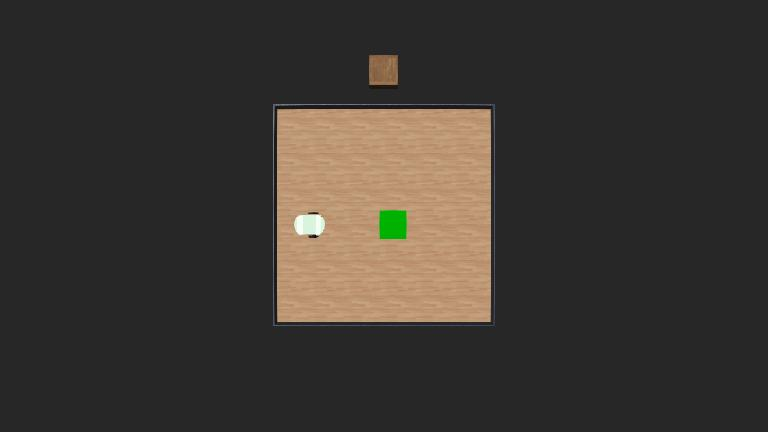
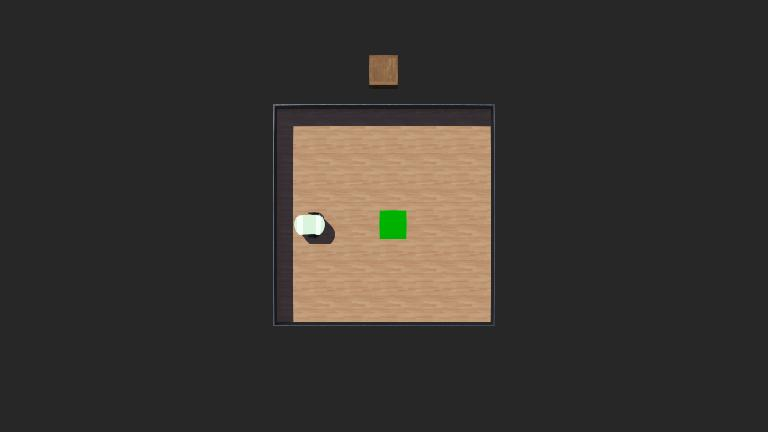
side sensors

Changed region(s): [[0.3438, 0.2407, 0.6562, 0.7523]]

diff --git a/src/simulation/controllers/rl/params.py b/src/simulation/controllers/rl/params.py
@@ -6,48 +6,48 @@ controllers_path = (
 
 
 params = [
-    # {...
-    #     "id": 1,
-    #     "agent": PPO,
-    #     "name": "ppo",
-    #     "time_limit": 150.0,
-    #     "args": {},
-    # },
-    # {
-    #     "id": 49,
-    #     "agent": PPO,
-    #     "name": "ppo",
-    #     "time_limit": 150.0,
-    #     "args": {
-    #         "learning_rate": 0.0001,
-    #         "n_steps": 4096,
-    #         "gamma": 0.99,
-    #     },
-    # },
-    # {
-    #     "id": 51,
-    #     "agent": PPO,
-    #     "name": "ppo",
-    #     "time_limit": 150.0,
-    #     "args": {
-    #         "learning_rate": 0.0003,
-    #         "n_steps": 4096,
-    #         "gamma": 0.9,
-    #         "ent_coef": 0.01,
-    #     },
-    # },
-    # {
-    #     "id": 52,
-    #     "agent": PPO,
-    #     "name": "ppo",
-    #     "time_limit": 150.0,
-    #     "args": {
-    #         "learning_rate": 0.0003,
-    #         "n_steps": 8192,
-    #         "gamma": 0.9,
-    #         "ent_coef": 0.01,
-    #     },
-    # },...
+    {
+        "id": 1,
+        "agent": PPO,
+        "name": "ppo",
+        "time_limit": 150.0,
+        "args": {},
+    },
+    {
+        "id": 49,
+        "agent": PPO,
+        "name": "ppo",
+        "time_limit": 150.0,
+        "args": {
+            "learning_rate": 0.0001,
+            "n_steps": 4096,
+            "gamma": 0.99,
+        },
+    },
+    {
+        "id": 51,
+        "agent": PPO,
+        "name": "ppo",
+        "time_limit": 150.0,
+        "args": {
+            "learning_rate": 0.0003,
+            "n_steps": 4096,
+            "gamma": 0.9,
+            "ent_coef": 0.01,
+        },
+    },
+    {
+        "id": 52,
+        "agent": PPO,
+        "name": "ppo",
+        "time_limit": 150.0,
+        "args": {
+            "learning_rate": 0.0003,
+            "n_steps": 8192,
+            "gamma": 0.9,
+            "ent_coef": 0.01,
+        },
+    },
     # {
     #     "id": 50,
     #     "agent": PPO,

diff --git a/src/simulation/controllers/rl/rl.py b/src/simulation/controllers/rl/rl.py
@@ -25,7 +25,7 @@ total_steps = states["total_steps"]
 MODE = "multiple"  # single / multiple
 MODEL_MODE = "train_save"  # train / train_save / test
 
-IDENTIFIER = "orange"
+IDENTIFIER = "melon"
 
 
 def main():
@@ -35,10 +35,10 @@ def main():
 
         controller = MyController(
             model_mode=MODEL_MODE,
-            version_mode="load",
+            version_mode="",
             env_mode=current_step,
             env_to_train_from=prev_step,
-            robot_sensors="front",
+            robot_sensors="sides",
             verbose=True,
         )
 

diff --git a/myenv/mycontroller.py b/myenv/mycontroller.py
@@ -85,7 +85,7 @@ class MyController:
         param_str = "_".join(f"{key}={value}" for key, value in model_args.items())
 
         #################### CHECKS ####################
-        print("here")
+
         current_model_name = model_name_check(self.env, model_name, model_version)  # type: ignore
         if self.env.unwrapped.world_path.split("/worlds/")[1].split(".wbt")[0] != f"{self.env_mode}_{self.model_mode.split('_')[0]}":  # type: ignore
             curr_path = self.env.unwrapped.world_path.split("/worlds/")[0]
